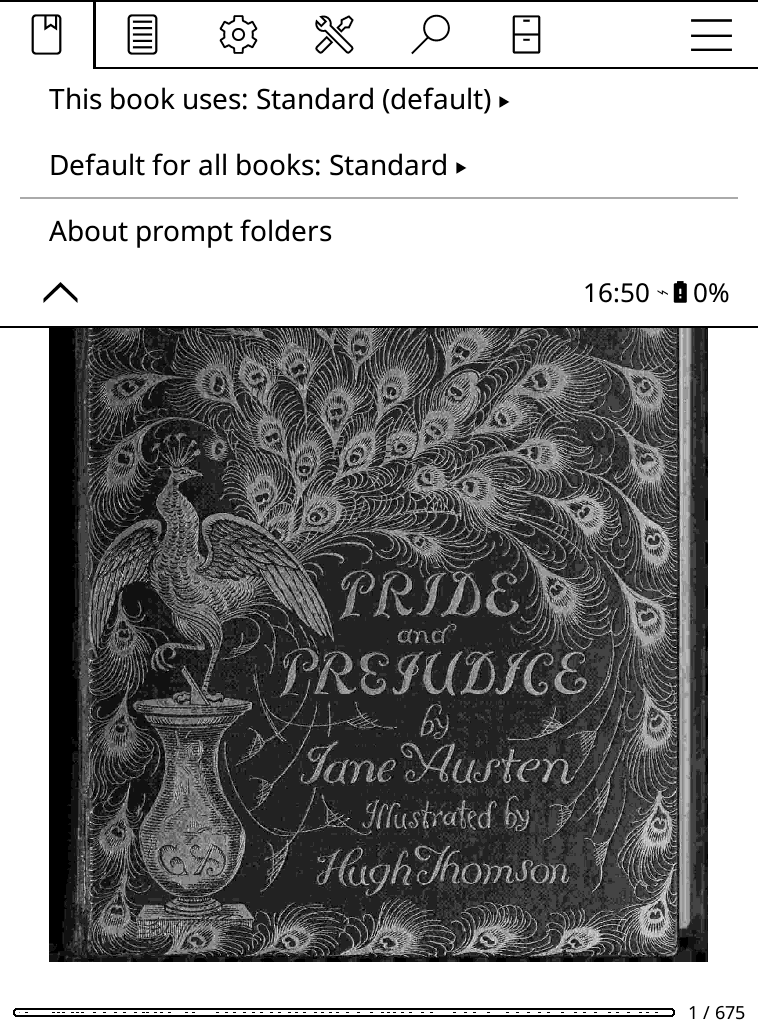
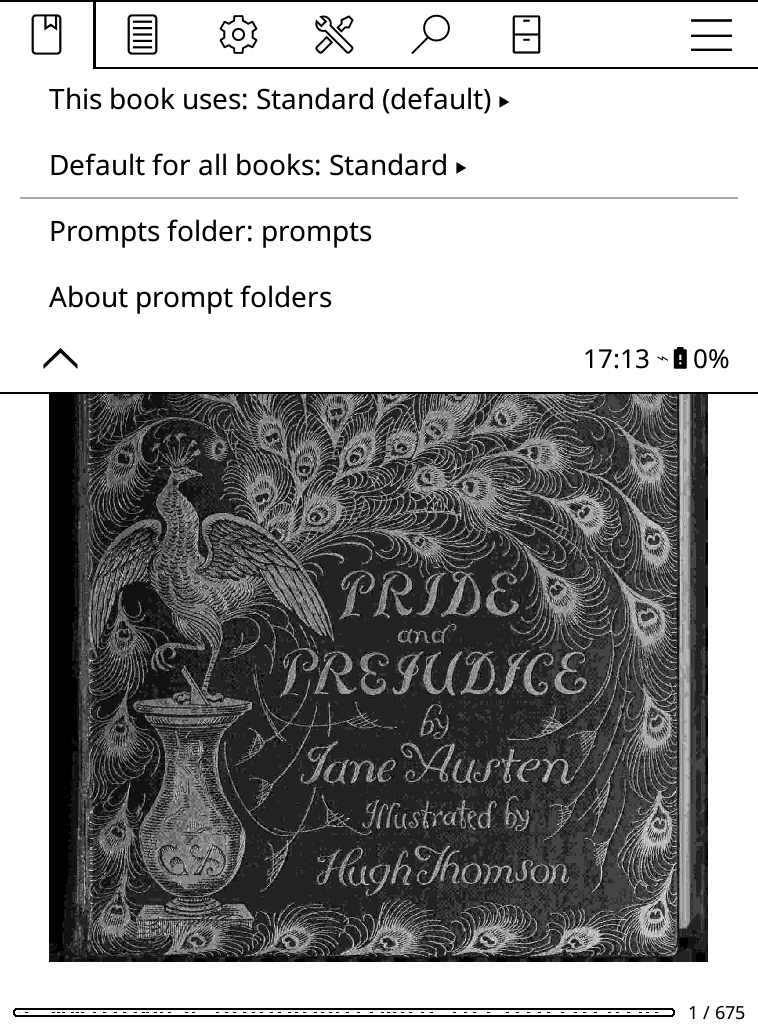
feat(koreader): choose the prompts folder with KOReader's folder picker

Changed region(s): [[0.0607, 0.25, 0.971, 0.4062], [0.0607, 0.2188, 0.4855, 0.25]]

diff --git a/README.md b/README.md
@@ -99,7 +99,7 @@ Select a term of one to three words and the highlight menu offers **Suggest defi
 
 ### Your own AI prompts
 
-The prompt the AI follows makes a big difference to the cards. Prompts are Markdown files in `applications/pbanki/prompts/`, one folder per prompt:
+The prompt the AI follows makes a big difference to the cards. Prompts are Markdown files, one folder per prompt, in `applications/pbanki/prompts/` unless you pick another folder:
 
 ```
 prompts/
@@ -113,7 +113,7 @@ prompts/
 
 To make your own, copy the Standard folder with KOReader's file browser (or from a computer), rename it and edit the files in KOReader's text editor. A folder doesn't need all three files: any that are missing use Standard. Edits to Standard itself are undone when a book opens, so it stays a clean copy of the built-in prompt. The plugin tidies the Markdown (line ends, blank lines, space around headings) and adds the reply format itself, so the files only hold instructions.
 
-**Tools → pbAnki flashcards → AI prompt** picks a default prompt for all books, and a different one for any book that needs it.
+**Tools → pbAnki flashcards → AI prompt** picks a default prompt for all books, and a different one for any book that needs it. **Prompts folder** there moves the whole set elsewhere with KOReader's folder picker, say next to your books; the plugin adds Standard to the folder you choose.
 
 <table>
   <tr>
